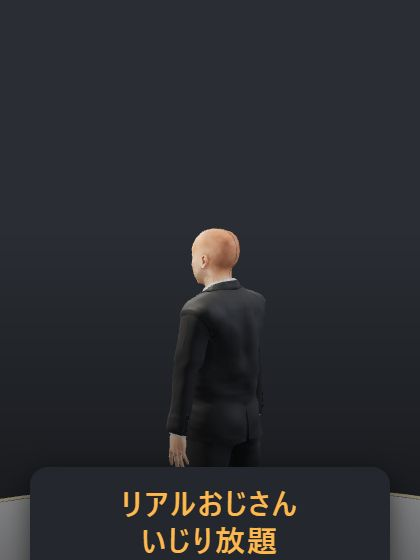
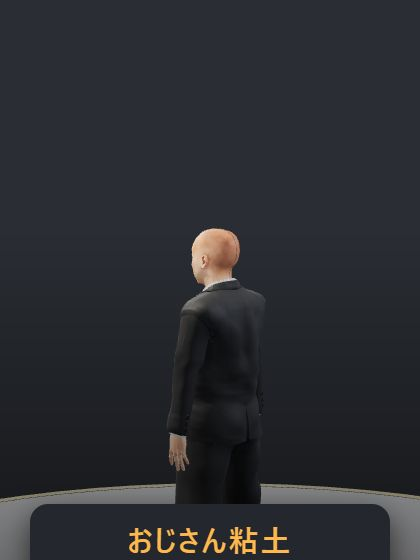
自動公開 / 更新: おじさん粘土

Changed region(s): [[0.031, 0.8196, 0.9595, 1.0]]

diff --git a/apps/ojisan-ijiri/index.html b/apps/ojisan-ijiri/index.html
@@ -7,8 +7,8 @@
 <script src="../../audio-pause.js"></script>
 <meta charset="utf-8">
 <meta name="viewport" content="width=device-width,initial-scale=1,maximum-scale=1,user-scalable=no,viewport-fit=cover">
-<title>リアルおじさん いじり放題</title>
-<meta name="description" content="リアルなおじさんの顔をこねて整形したり、体型・髪型・ポーズ・肌の色・小物を変えたり、つついたりできる3Dおもちゃ。">
+<title>おじさん粘土</title>
+<meta name="description" content="リアルなおじさんの顔も体も腕も足も、粘土みたいにこねて伸ばせる3Dおもちゃ。色を塗ったり、髪型・ポーズ・肌・小物を変えたりもできます。">
 <meta name="theme-color" content="#1d1f24">
 <style>
 [hidden]{display:none!important}
@@ -67,7 +67,7 @@ button{font-family:inherit;cursor:pointer;border:none;color:inherit}
 <div class="load" id="load"><div>おじさんを呼んでいます…</div><div class="bar"><i></i></div></div>
 
 <div class="top">
-  <h1>リアルおじさん いじり放題</h1>
+  <h1>おじさん粘土</h1>
   <button id="bHome">🏠</button>
   <button id="bTalk">🗣 しゃべる</button>
   <button id="bShot">📷</button>
@@ -264,7 +264,7 @@ button{font-family:inherit;cursor:pointer;border:none;color:inherit}
 </div>
 <div class="ov title" id="ovTitle" hidden>
   <div class="card">
-    <h1>リアルおじさん<br>いじり放題</h1>
+    <h1>おじさん粘土</h1>
     <p class="sub2">顔も体も腕も足もこねる・色を塗る・髪・ポーズ・小物…<br>おじさんを好きなだけいじれる3Dおもちゃ</p>
     <button class="big" id="tPlay">いじる</button>
     <button class="big gray" id="tHelp">遊び方</button>
